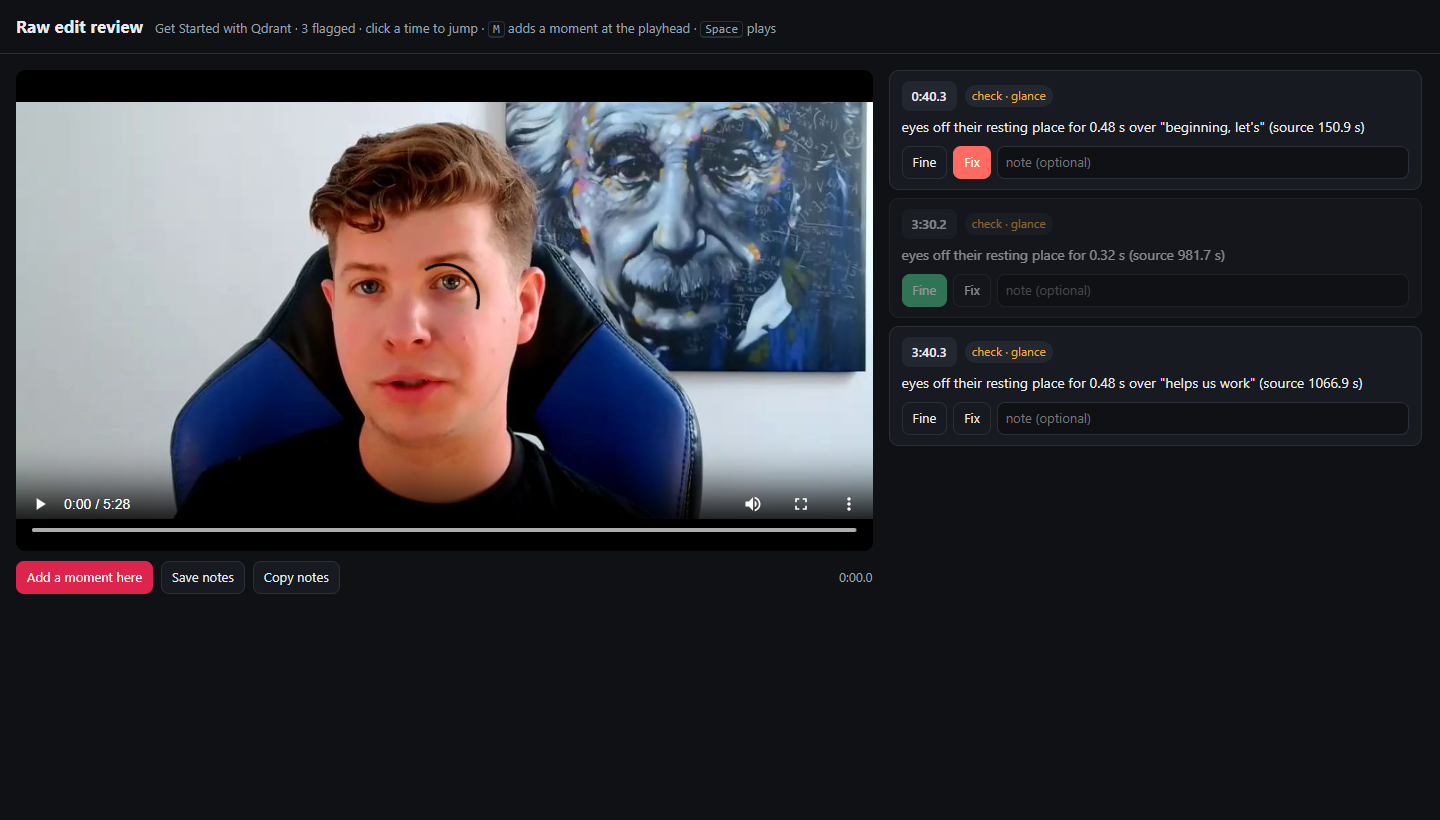
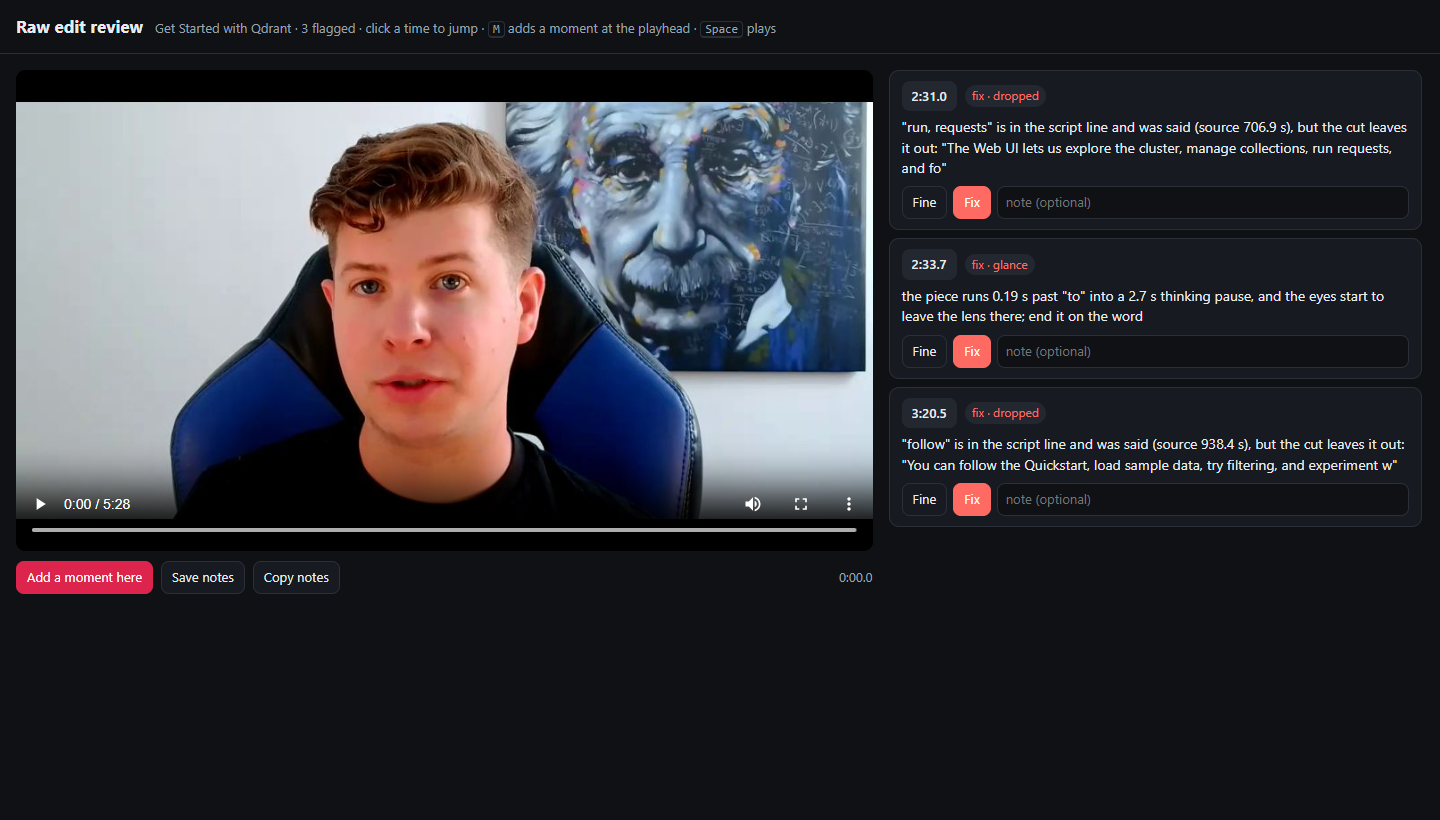
raw-edit pictures: limit after the 49-video check (0.59 s), review page without the loading spinner

Changed region(s): [[0.625, 0.1524, 0.9688, 0.6402], [0.625, 0.0915, 0.7188, 0.122]]

diff --git a/skills/raw-edit/scripts/make_images.py b/skills/raw-edit/scripts/make_images.py
@@ -147,8 +147,9 @@ def review_shot(cut_dir, out):
     page = os.path.abspath(os.path.join(cut_dir, "review.html"))
     with sync_playwright() as p:
         b = p.chromium.launch(channel="chrome"); pg = b.new_page(viewport={"width": 1440, "height": 820}, color_scheme="dark")
-        pg.goto("file:///" + page.replace("\\", "/")); pg.wait_for_timeout(800)
-        pg.evaluate("document.querySelectorAll('.fix')[0] && document.querySelectorAll('.fix')[0].click(); document.querySelectorAll('.fine')[1] && document.querySelectorAll('.fine')[1].click()")
+        pg.goto("file:///" + page.replace("\\", "/"))
+        pg.wait_for_function("document.getElementById('v').readyState >= 1", timeout=30000); pg.wait_for_timeout(1500)   # no loading spinner
+        pg.evaluate("document.querySelectorAll('.fix').forEach(b => b.click())")                                      # all marked Fix
         pg.screenshot(path=out); b.close()
     print("->", out)
 
